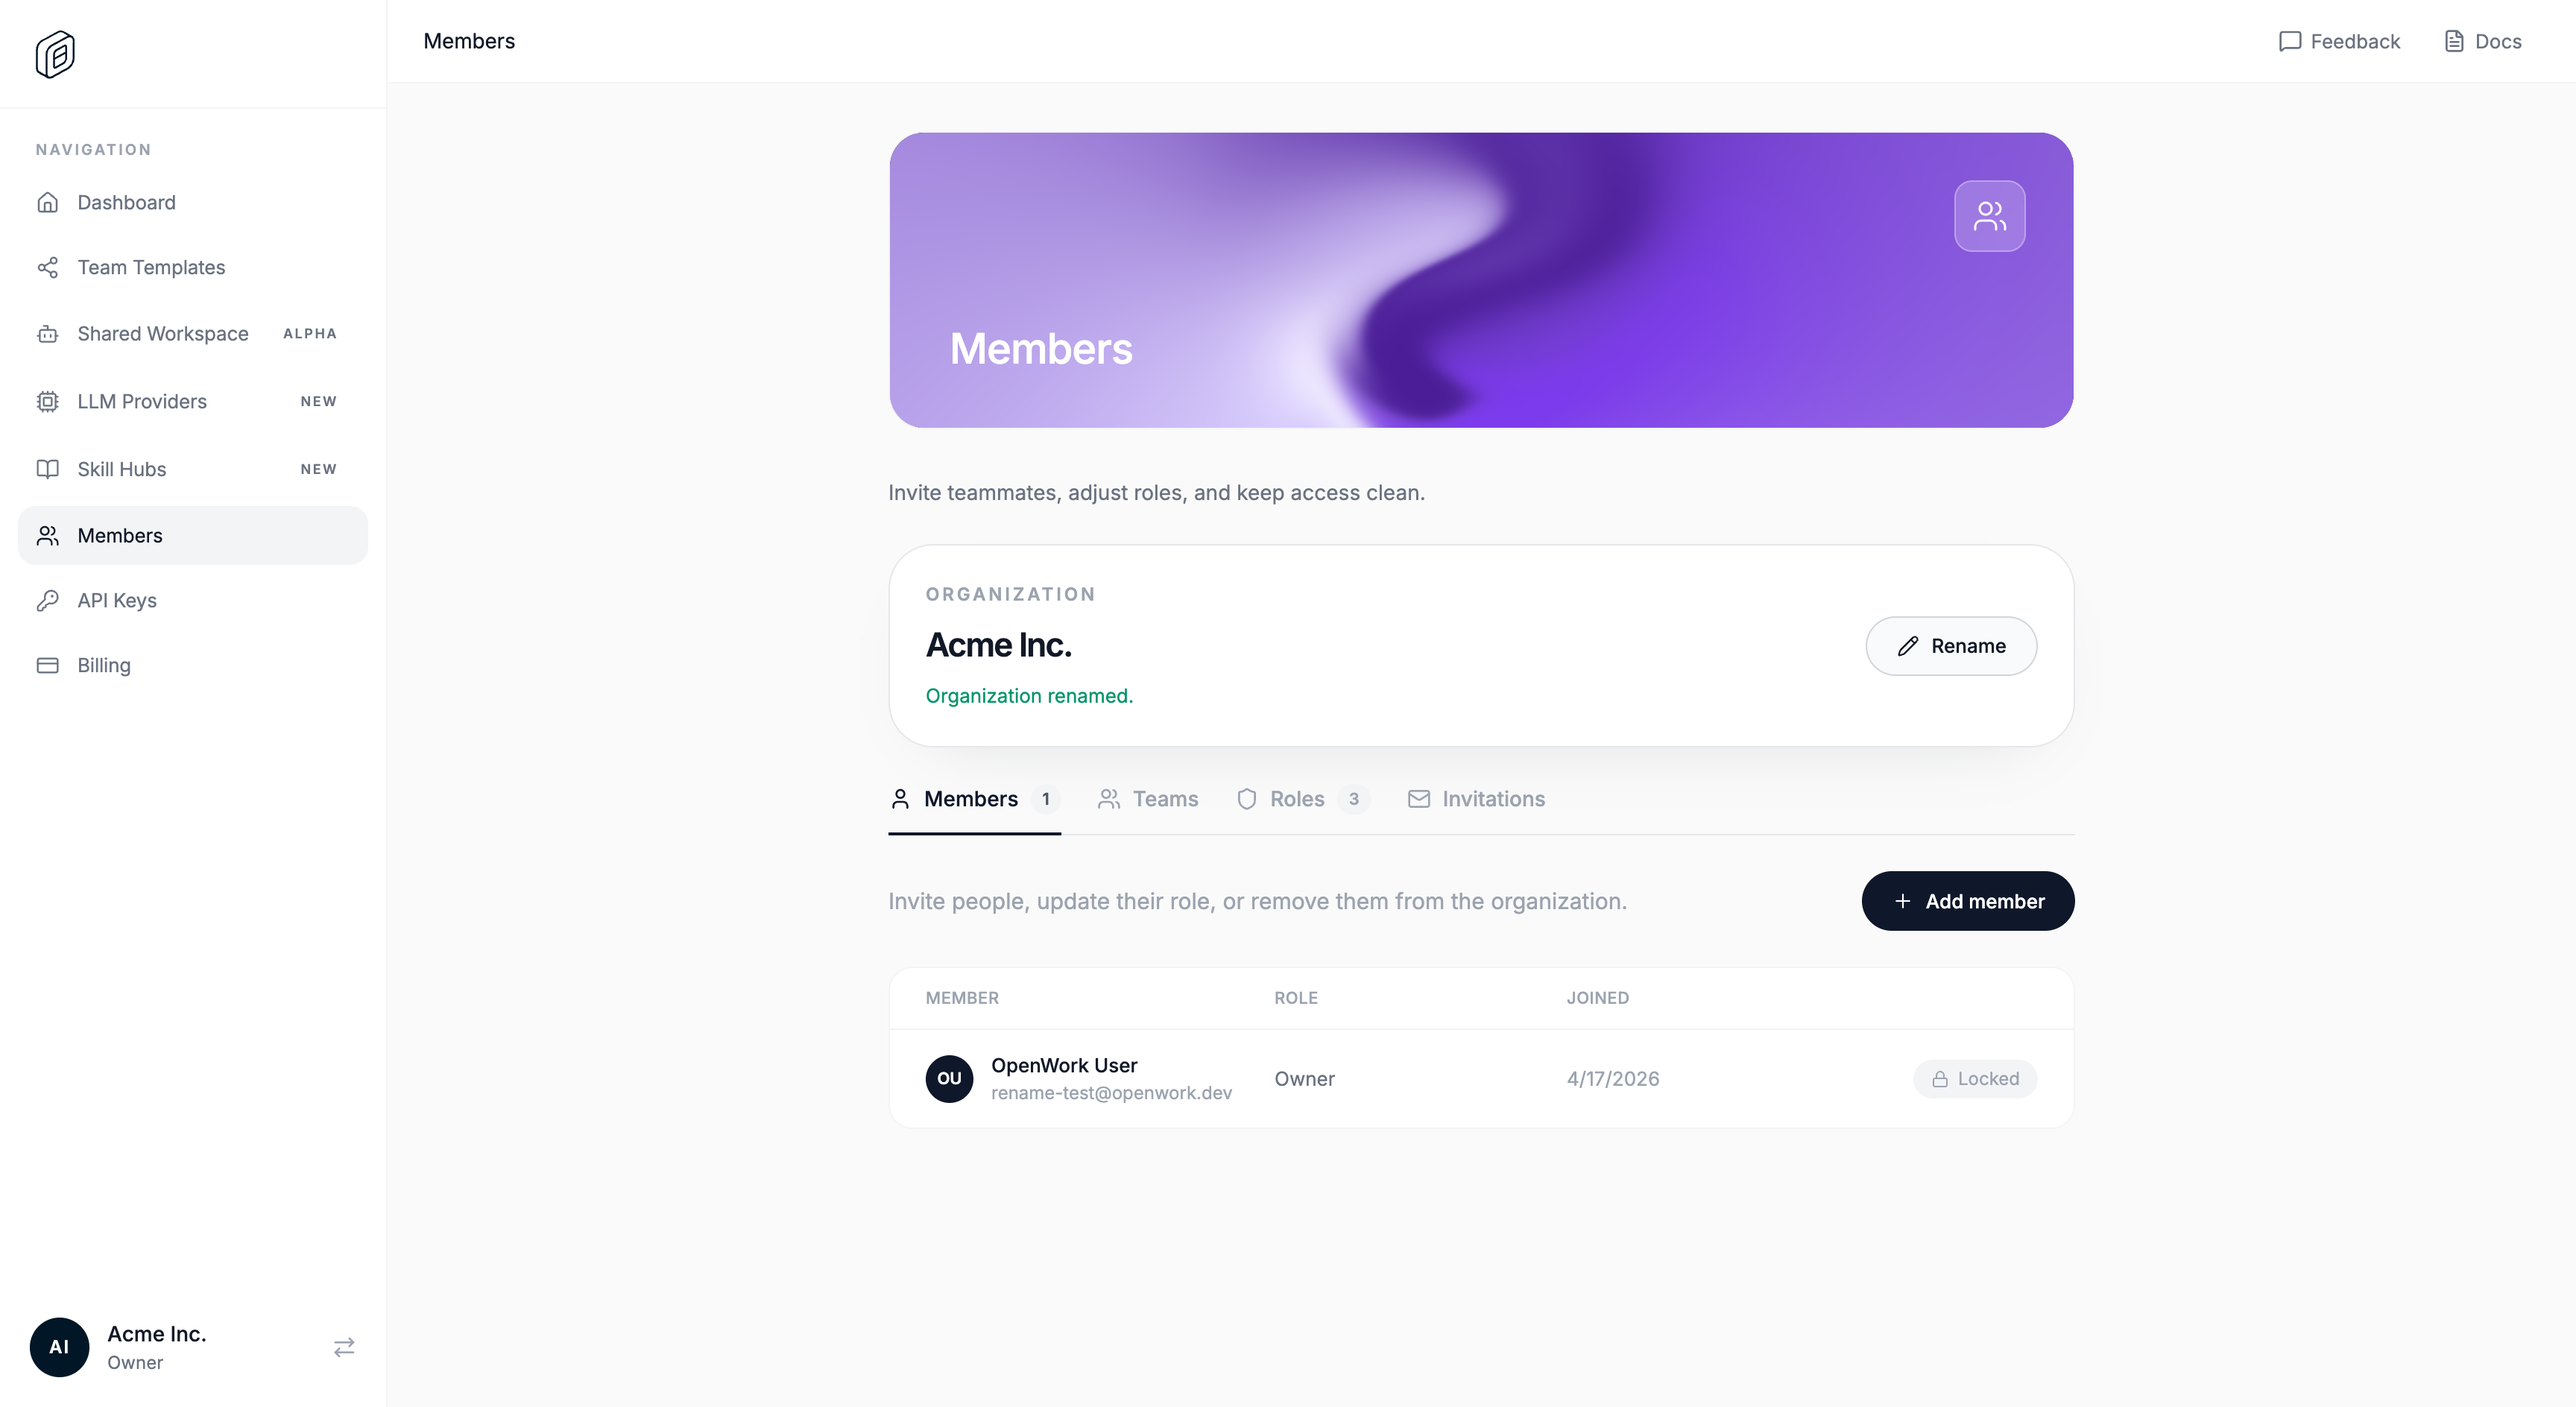
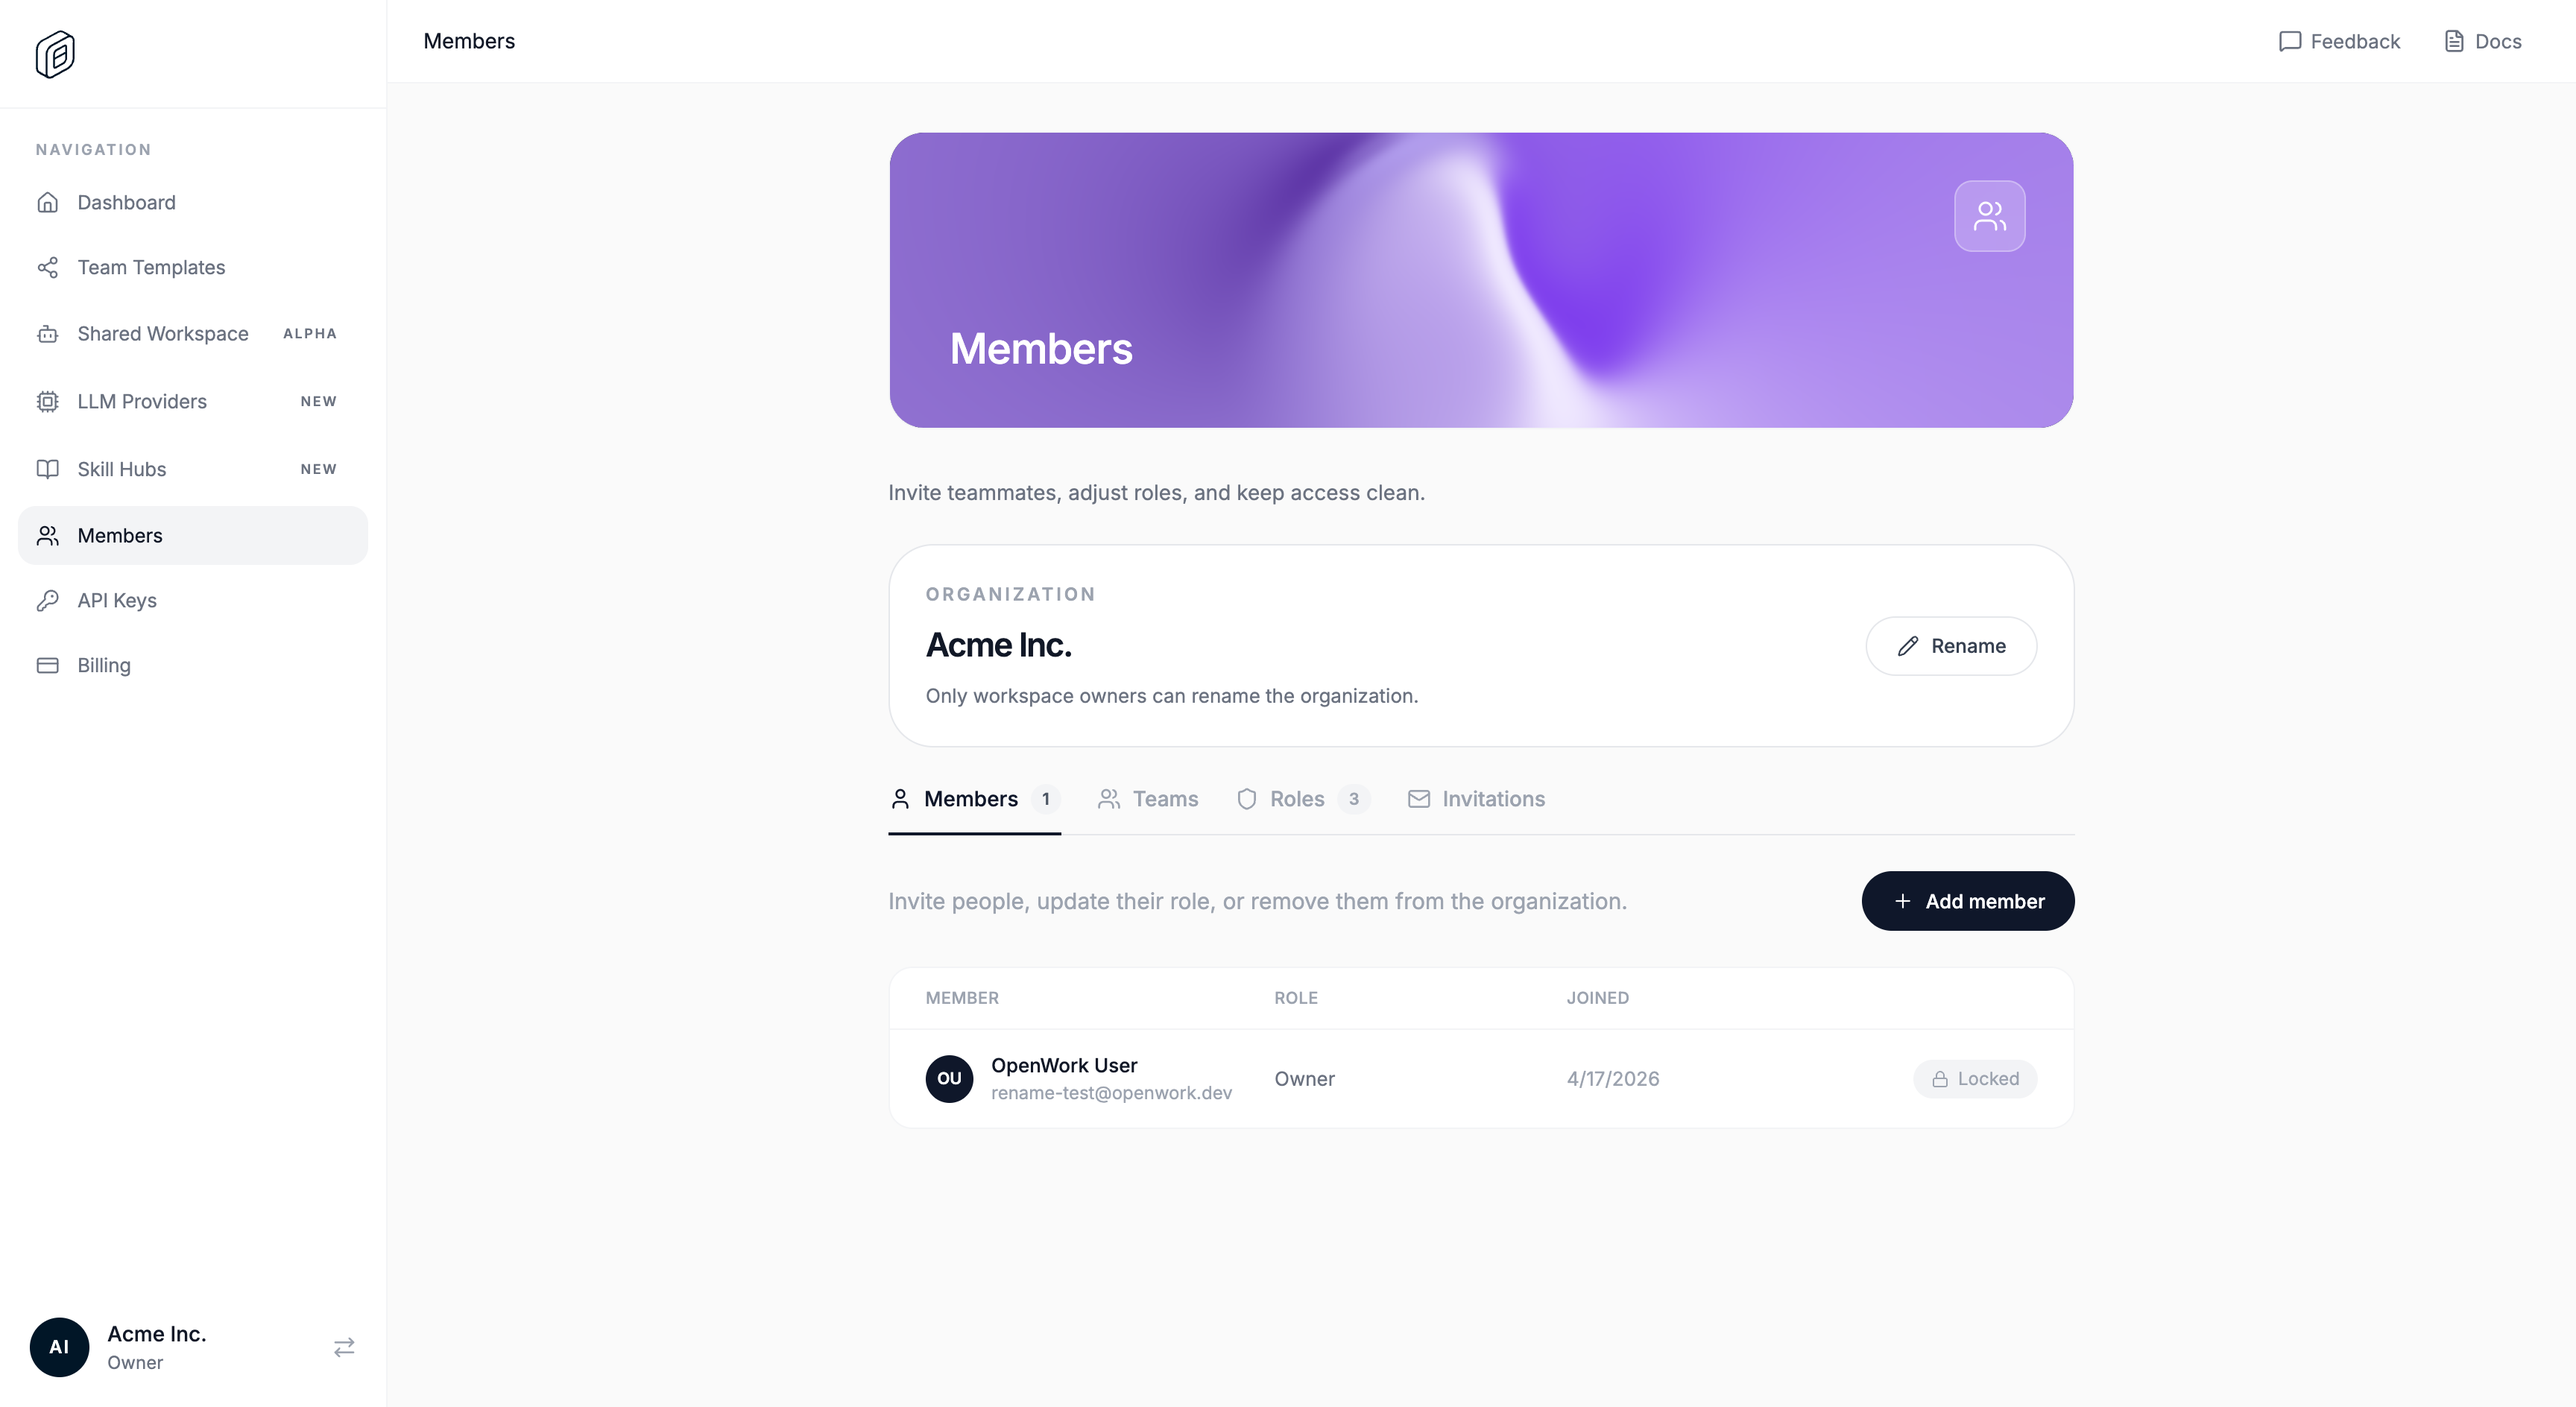
refactor(den-web): extract DenCard primitive and drop drop shadows
The dashboard has been inlining the same card style (rounded-[30px] + p-6
+ shadow-[0_18px_48px_-34px_rgba(15,23,42,0.22)]) on every form surface.
Per Den visual language we do not use drop shadows, so the repeated
shadow class is both incorrect and a copy-paste risk.

- Add ee/apps/den-web/app/(den)/_components/ui/card.tsx exporting DenCard
  with two size presets (comfortable + spacious). Shadows are explicitly
  omitted and the component is designed so they cannot be re-introduced
  via className (no tokens ever emit shadow utilities).
- Replace all five inline cards in manage-members-screen.tsx with DenCard.
- Replace the reused sibling card in api-keys-screen.tsx with DenCard.
- Re-capture members-rename screenshots against the refactored UI.

Changed region(s): [[0.3438, 0.0938, 0.8125, 0.3125], [0.375, 0.4688, 0.5312, 0.5], [0.75, 0.4375, 0.7812, 0.4688]]

diff --git a/ee/apps/den-web/app/(den)/o/[orgSlug]/dashboard/_components/manage-members-screen.tsx b/ee/apps/den-web/app/(den)/o/[orgSlug]/dashboard/_components/manage-members-screen.tsx
@@ -28,6 +28,7 @@ import { useOrgDashboard } from "../_providers/org-dashboard-provider";
 import { UnderlineTabs } from "../../../../_components/ui/tabs";
 import { DashboardPageTemplate } from "../../../../_components/ui/dashboard-page-template";
 import { DenButton } from "../../../../_components/ui/button";
+import { DenCard } from "../../../../_components/ui/card";
 import { DenInput } from "../../../../_components/ui/input";
 import { DenSelect } from "../../../../_components/ui/select";
 
@@ -275,7 +276,7 @@ export function ManageMembersScreen() {
 
   const inviteForm =
     showInviteForm && access.canInviteMembers ? (
-      <div className="mb-6 rounded-[30px] border border-gray-200 bg-white p-6 shadow-[0_18px_48px_-34px_rgba(15,23,42,0.22)]">
+      <DenCard className="mb-6">
         <form
           className="grid gap-4 lg:grid-cols-[minmax(0,1.4fr)_220px_auto] lg:items-end"
           onSubmit={async (event) => {
@@ -326,12 +327,12 @@ export function ManageMembersScreen() {
             </DenButton>
           </div>
         </form>
-      </div>
+      </DenCard>
     ) : null;
 
   const editMemberForm =
     editingMemberId && access.canManageMembers ? (
-      <div className="mb-6 rounded-[30px] border border-gray-200 bg-white p-6 shadow-[0_18px_48px_-34px_rgba(15,23,42,0.22)]">
+      <DenCard className="mb-6">
         <form
           className="grid gap-4 lg:grid-cols-[240px_auto] lg:items-end"
           onSubmit={async (event) => {
@@ -366,12 +367,12 @@ export function ManageMembersScreen() {
             </DenButton>
           </div>
         </form>
-      </div>
+      </DenCard>
     ) : null;
 
   const teamForm =
     (showTeamForm || editingTeamId) && access.canManageTeams ? (
-      <div className="mb-6 rounded-[30px] border border-gray-200 bg-white p-6 shadow-[0_18px_48px_-34px_rgba(15,23,42,0.22)]">
+      <DenCard className="mb-6">
         <form
           className="grid gap-6"
           onSubmit={async (event) => {
@@ -471,12 +472,12 @@ export function ManageMembersScreen() {
             </DenButton>
           </div>
         </form>
-      </div>
+      </DenCard>
     ) : null;
 
   const roleForm =
     (showRoleForm || editingRoleId) && access.canManageRoles ? (
-      <div className="mb-6 rounded-[30px] border border-gray-200 bg-white p-6 shadow-[0_18px_48px_-34px_rgba(15,23,42,0.22)]">
+      <DenCard className="mb-6">
         <form
           className="grid gap-6"
           onSubmit={async (event) => {
@@ -569,7 +570,7 @@ export function ManageMembersScreen() {
             </DenButton>
           </div>
         </form>
-      </div>
+      </DenCard>
     ) : null;
 
   const toolbarAction = (() => {
@@ -640,10 +641,7 @@ export function ManageMembersScreen() {
         </div>
       ) : null}
 
-      <div
-        className="mb-6 rounded-[30px] border border-gray-200 bg-white p-6 shadow-[0_18px_48px_-34px_rgba(15,23,42,0.22)]"
-        data-testid="org-settings-card"
-      >
+      <DenCard className="mb-6" data-testid="org-settings-card">
         {isRenamingOrg && access.isOwner ? (
           <form
             className="grid gap-4 lg:grid-cols-[minmax(0,1fr)_auto] lg:items-end"
@@ -741,7 +739,7 @@ export function ManageMembersScreen() {
             ) : null}
           </div>
         )}
-      </div>
+      </DenCard>
 
       <UnderlineTabs
         className="mb-6"

diff --git a/ee/apps/den-web/app/(den)/o/[orgSlug]/dashboard/_components/api-keys-screen.tsx b/ee/apps/den-web/app/(den)/o/[orgSlug]/dashboard/_components/api-keys-screen.tsx
@@ -4,6 +4,7 @@ import { type FormEvent, useEffect, useMemo, useState } from "react";
 import { Copy, KeyRound, Trash2 } from "lucide-react";
 import { DashboardPageTemplate } from "../../../../_components/ui/dashboard-page-template";
 import { DenButton } from "../../../../_components/ui/button";
+import { DenCard } from "../../../../_components/ui/card";
 import { DenInput } from "../../../../_components/ui/input";
 import { getErrorMessage, requestJson } from "../../../../_lib/den-flow";
 import {
@@ -280,7 +281,7 @@ export function ApiKeysScreen() {
                         </div>
                     ) : null}
 
-                    <div className="mb-6 rounded-[30px] border border-gray-200 bg-white p-6 shadow-[0_18px_48px_-34px_rgba(15,23,42,0.22)]">
+                    <DenCard className="mb-6">
                         {createdKey ? (
                             <div className="rounded-[24px] bg-[#0f172a] p-6 text-white">
                                 <div className="flex flex-wrap items-start justify-between gap-4">
@@ -364,12 +365,12 @@ export function ApiKeysScreen() {
                                         Create a new API key
                                     </p>
                                 </div>
-                                <DenButton onClick={openCreateForm}>
+                                 <DenButton onClick={openCreateForm}>
                                     New key
                                 </DenButton>
                             </div>
                         )}
-                    </div>
+                    </DenCard>
 
                     <div className="overflow-hidden rounded-[28px] border border-gray-100 bg-white">
                         <div className="grid grid-cols-[minmax(0,1.6fr)_minmax(0,1fr)_180px_120px] gap-4 border-b border-gray-100 px-6 py-3 text-[11px] font-medium uppercase tracking-wide text-gray-400">

diff --git a/ee/apps/den-web/app/(den)/_components/ui/card.tsx b/ee/apps/den-web/app/(den)/_components/ui/card.tsx
@@ -1,0 +1,59 @@
+"use client";
+
+import { forwardRef, type HTMLAttributes } from "react";
+
+/**
+ * Visual density presets for cards.
+ *
+ * Den surfaces never use drop shadows — flat borders only. If you need to
+ * emphasise a card, use a darker border, a coloured background, or the
+ * gradient hero (see `DashboardPageTemplate`). Do NOT reintroduce shadows.
+ */
+export type DenCardSize = "comfortable" | "spacious";
+
+const sizeClasses: Record<DenCardSize, string> = {
+  // Matches the original Members / API Keys inline card.
+  comfortable: "rounded-[30px] p-6",
+  // Matches the editor-screen section card (LLM providers, skill hubs).
+  spacious: "rounded-[36px] p-8",
+};
+
+export type DenCardProps = HTMLAttributes<HTMLDivElement> & {
+  size?: DenCardSize;
+};
+
+/**
+ * DenCard
+ *
+ * Reusable surface container for the Den dashboard.
+ *
+ * Intentional constraints:
+ * - No drop shadows. Ever.
+ * - No hover transforms. Cards are surfaces, not buttons.
+ * - Single, borderable background (`border-gray-200 bg-white`).
+ *
+ * Pick a size that matches the surrounding flow:
+ * - `comfortable` (default): forms, summary cards, inline editors.
+ * - `spacious`: detail/editor pages with multiple stacked sections.
+ *
+ * Anything more opinionated (headings, toolbars, descriptions) belongs in a
+ * higher-level composition, not in this primitive.
+ */
+export const DenCard = forwardRef<HTMLDivElement, DenCardProps>(function DenCard(
+  { size = "comfortable", className, ...rest },
+  ref,
+) {
+  return (
+    <div
+      ref={ref}
+      {...rest}
+      className={[
+        "border border-gray-200 bg-white",
+        sizeClasses[size],
+        className ?? "",
+      ]
+        .filter(Boolean)
+        .join(" ")}
+    />
+  );
+});
